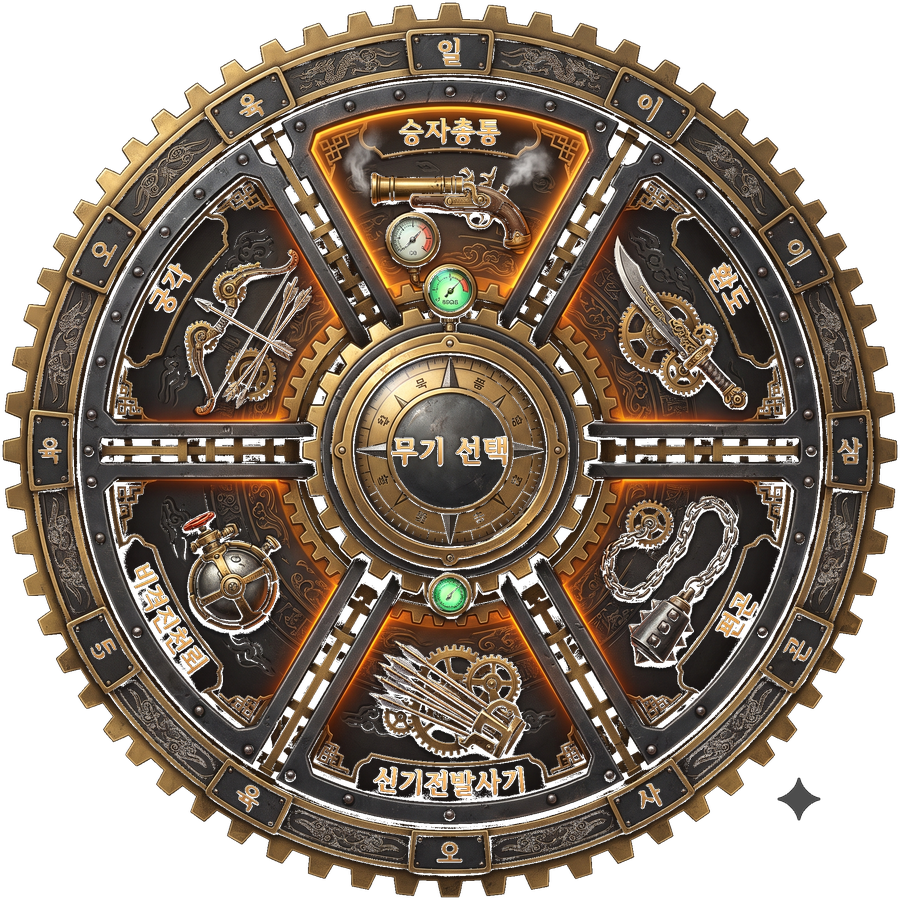
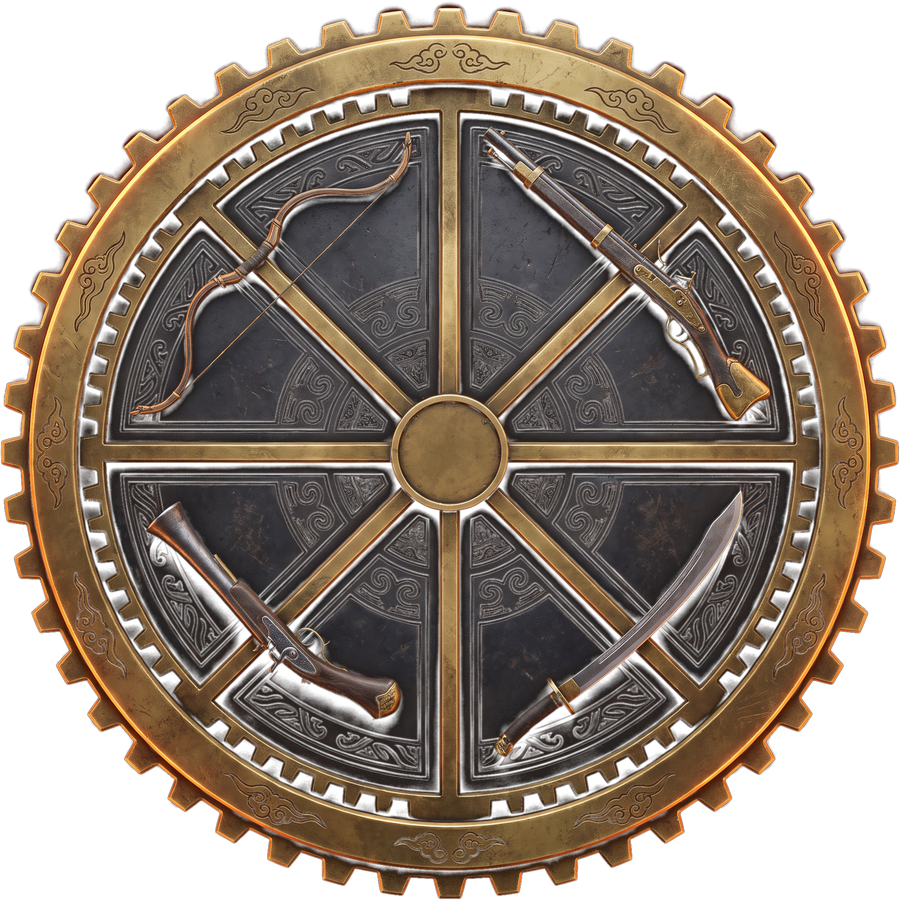
feat: 조선 산탄총 + 흑각궁 실장 (Gemini 아트) + 4분할 무기 휠
아트는 Kling MCP 안의 Gemini 3 Pro Image(나노바나나 Pro)로 생성. 기존 rifle.png 를
image_to_image 레퍼런스로 넣어 손·장갑·브레이서·황동/호두나무 팔레트·구름 각인·압력계까지
맞췄다. 흰 배경 → 알파 컷아웃 후 1100px 폭으로 정규화 (기존 뷰모델 규격).

■ 승자 권총 → 조선 산탄총
펠릿 8발을 7.5° 원뿔로 뿌리고 각각 히트스캔 + 거리 감쇠(8m 까지 100%, 22m 부터 15%).
"빗맞음" 이 부분 명중이 되므로 액터별로 데미지를 합산해 한 번만 onHit 한다.
명중률 통계는 발당 1회만 센다.
실측 데미지: 3m 72 / 8m 36 / 20m 5.3 — 근거리 폭발력, 원거리 무력.
다중 타격도 확인 (3인 밀집에 1발 → 2인 명중).

■ 흑각궁 · 산탄총 전용 아트와 모션
- ritual/carbine 이 rifle.png 를 돌려쓰던 것을 각자 아트로 교체
- 산탄총: 발사 후 펌프를 당겼다 미는 동작
- 활: 시위를 놓으면 앞으로 튀었다가 다음 화살을 당겨 온다
- 반동 크기를 무기 kick 값에 비례시킨다 (전엔 전 무기 고정값)

■ 무기 휠
기존 wheel.png 는 6칸에 다른 무기 이름(승자총통·신기전발사기 등)이 이미지로 구워져
있어 코드의 X자 4분할 + DOM 라벨 구조와 완전히 어긋나 있었다. 4분면에 실제 무기
4종 아이콘만 넣고 텍스트는 뺐다(라벨은 코드가 얹는다).

diff --git a/src/vmsprite.js b/src/vmsprite.js
@@ -6,8 +6,8 @@ import { WEAPONS, HEAVY } from './config.js';
 
 const SPRITES = {
   rifle: 'assets/vm/rifle.png',
-  carbine: 'assets/vm/rifle.png',     // 전용 아트 없음 — 소총 공유
-  ritual: 'assets/vm/rifle.png',
+  carbine: 'assets/vm/shotgun.png',   // 조선 산탄총
+  ritual: 'assets/vm/bow.png',        // 흑각궁
   hwando: 'assets/vm/dagger.png',     // 근접 — 단도/환도 아트
   dagger: 'assets/vm/dagger.png',
   grenade: 'assets/vm/grenade.png',
@@ -30,7 +30,14 @@ export function initVmSprite() {
 
   state.on('handChosen', (h) => document.body.classList.toggle('hand-L', h === 'L'));
   state.on('weaponChanged', refresh);
-  state.on('shotFired', () => { kickY = 26; kickR = 3.5; });
+  state.on('shotFired', () => {
+    const k = WEAPONS[state.currentWeapon];
+    kickY = 26 * (k?.kick ? k.kick / 0.045 : 1); kickR = 3.5 * (k?.kick ? k.kick / 0.045 : 1);
+    // 산탄총: 발사 직후 펌프를 당겼다 민다 (재장전과 별개의 짧은 동작)
+    if (k?.pellets) { const dur = k.fireMs; override = { sprite: cur(), until: now() + dur, anim: 'pump', dur }; }
+    // 활: 쏘면 시위가 튕기고 다음 화살을 매긴다
+    if (k?.silent && k?.drawMs) { const dur = k.drawMs; override = { sprite: cur(), until: now() + dur, anim: 'nock', dur }; }
+  });
   state.on('reloadStart', (key) => {
     const ms = (WEAPONS[key || state.currentWeapon]?.reloadMs || 600) + 250;
     override = { sprite: cur(), until: now() + ms, anim: 'reload', dur: ms };
@@ -54,6 +61,8 @@ export function initVmSprite() {
 }
 
 function cur() { return SPRITES[state.currentWeapon] || SPRITES.rifle; }
+// 0..1 구간을 pivot 기준으로 0..1 로 다시 편다 (전/후반 대칭 동작용)
+function k2(k, pivot) { return k < pivot ? k / pivot : (k - pivot) / (1 - pivot); }
 function refresh() { if (img) img.src = cur(); }
 
 export function updateVmSprite(dt) {
@@ -100,6 +109,16 @@ export function updateVmSprite(dt) {
       ay = -30 - 90 * Math.sin(s * Math.PI);                  // 호 (중간에 치켜들림)
       ar = 26 - 78 * s;                                       // 칼날 각도 회전
       scale = 1 + 0.12 * Math.sin(s * Math.PI);
+    }
+    if (override.anim === 'pump') {          // 펌프 액션: 뒤로 당겼다(전반) 앞으로 민다(후반)
+      const p = k2(k, 0.42);
+      ax = (k < 0.42 ? -70 * p : -70 * (1 - p)) ;
+      ar = (k < 0.42 ? -7 * p : -7 * (1 - p));
+      ay = 10 * Math.sin(k * Math.PI);
+    }
+    if (override.anim === 'nock') {          // 시위: 놓는 순간 앞으로 튀었다가 다음 화살을 당겨 온다
+      if (k < 0.3) { const p = k / 0.3; ax = -46 * p; ar = 5 * p; }
+      else { const p = (k - 0.3) / 0.7, e = p * p * (3 - 2 * p); ax = -46 * (1 - e) + 26 * Math.sin(p * Math.PI); ar = 5 * (1 - e); }
     }
     if (override.anim === 'throw') { ay = 30 - 90 * Math.sin(Math.min(1, k * 1.3) * Math.PI); ar = -6 * Math.sin(k * Math.PI); }
     if (override.anim === 'heavy') {

diff --git a/src/combat.js b/src/combat.js
@@ -88,6 +88,8 @@ export function tryFire() {
   muzzleWorld(_v3);
   state.emit('shotFired', { muzzle: _v3.clone() });
 
+  if (cfg.pellets) return shotgunBlast(cfg);   // 산탄: 펠릿 N 발을 각각 판정
+
   // 히트스캔: 화면 중앙 (포인터락)
   raycaster.setFromCamera({ x: 0, y: 0 }, rig.camera);
   raycaster.far = 200;
@@ -126,6 +128,52 @@ export function tryFire() {
   } else {
     state.combo = 0; state.comboMult = 1; state.emit('comboChanged');
   }
+}
+
+// ── 산탄총: 펠릿을 원뿔로 뿌리고 각각 히트스캔 + 거리 감쇠 ──
+// 한 발이 아니라 여러 발이므로 "빗맞음" 이 부분 명중이 된다. 명중률 통계는 발당 1회만 센다.
+function shotgunBlast(cfg) {
+  const half = cfg.spreadDeg * Math.PI / 180;
+  let anyHit = false;
+  const dealt = new Map();          // actor -> {dmg, part, point}
+  for (let i = 0; i < cfg.pellets; i++) {
+    // 원형 균등 분포 (√r 로 중심 쏠림 방지)
+    const ang = Math.random() * Math.PI * 2;
+    const rad = Math.sqrt(Math.random()) * half;
+    raycaster.setFromCamera({ x: Math.cos(ang) * rad, y: Math.sin(ang) * rad }, rig.camera);
+    raycaster.far = 200;
+    const targets = hittables.filter(h => h.userData.actor?.alive);
+    const hits = raycaster.intersectObjects(targets, false);
+    if (!hits.length) continue;
+    const h = hits[0];
+    const a = h.object.userData.actor;
+    const part = h.object.name;
+    // 거리 감쇠: falloffFrom 까지 100%, falloffTo 부터 minMult
+    const d = h.distance;
+    const k = d <= cfg.falloffFrom ? 1
+            : d >= cfg.falloffTo ? cfg.minMult
+            : 1 - (1 - cfg.minMult) * (d - cfg.falloffFrom) / (cfg.falloffTo - cfg.falloffFrom);
+    const weak = part !== 'hitBody';
+    const dmg = cfg.dmg * (weak ? cfg.weakMult : 1) * k;
+    const cur = dealt.get(a) || { dmg: 0, part: 'hitBody', point: h.point, weak: false };
+    cur.dmg += dmg;
+    if (weak) { cur.part = part; cur.weak = true; }
+    cur.point = h.point;
+    dealt.set(a, cur);
+    anyHit = true;
+  }
+  if (anyHit) {
+    state.shotsHit += 1;
+    bumpCombo();
+    for (const [a, v] of dealt) {
+      a.onHit(v.part, v.dmg * state.comboMult, { weak: v.weak, weapon: cfg.key, shotgun: true });
+      state.emit('shotHit', { point: v.point, weak: v.weak, part: v.part });
+      if (a.headOnly && v.part === 'hitBody') state.emit('shotBlockedByShield', { point: v.point });
+    }
+  } else {
+    state.combo = 0; state.comboMult = 1; state.emit('comboChanged');
+  }
+  state.emit('shotgunBlast', dealt.size);
 }
 
 // ── 환도 근접 베기: 전방 부채꼴 내 최근접 적 1체 ──

diff --git a/src/config.js b/src/config.js
@@ -32,9 +32,11 @@ export const PLAYER = {
 // ── 무기 — PPTX {0}/{1} 규칙: 재장전량 = min(MaxMag-현재, 예비), 예비에서 정확히 차감 ──
 export const WEAPONS = {
   rifle:   { key: 'rifle',   name: '영천 장총', mag: 6, reserve: 60, dmg: 10, weakMult: 2, fireMs: 330, reloadMs: 600,  spread: 12, kick: 0.045 },
-  carbine: { key: 'carbine', name: '승자 권총', mag: 8, reserve: 48, dmg: 6,  weakMult: 2, fireMs: 180, reloadMs: 800,  spread: 24, kick: 0.028 },
+  // 조선 산탄총: 펠릿 8발을 한 번에. 근거리 폭발력, 원거리는 급격히 무력해진다
+  carbine: { key: 'carbine', name: '조선 산탄총', mag: 5, reserve: 30, dmg: 9, weakMult: 2, fireMs: 620, reloadMs: 1100, spread: 0, kick: 0.16,
+             pellets: 8, spreadDeg: 7.5, falloffFrom: 8, falloffTo: 22, minMult: 0.15 },
   ritual:  { key: 'ritual',  name: '흑각궁',    mag: 1, reserve: 3,  dmg: 60, weakMult: 2, fireMs: 800, reloadMs: 1600, spread: 8,  kick: 0.10,
-             silent: true },   // 활 — 무소음 (은신 시너지)
+             silent: true, drawMs: 520 },   // 활 — 무소음(은신 시너지) + 시위 당김 선행
   hwando:  { key: 'hwando',  name: '환도',      mag: 1, reserve: 0,  dmg: 34, weakMult: 2, fireMs: 420, reloadMs: 0,    spread: 0,  kick: 0.06,
              melee: true, range: 2.6, arcDeg: 100 },   // 근접 — 탄약 없음, 숏앤슬래시
 };

diff --git a/index.html b/index.html
@@ -243,10 +243,10 @@
     <div id="wheelx"></div>
     <span class="wlabel" id="wl-rifle">장총</span>
     <span class="wlabel" id="wl-hwando">환도</span>
-    <span class="wlabel" id="wl-carbine">권총</span>
+    <span class="wlabel" id="wl-carbine">산탄총</span>
     <span class="wlabel" id="wl-ritual">활</span>
   </div>
-  <div class="wheelhint" id="wheelname">Space 탭 — 무기 전환 · 1/2/3 직접 선택</div>
+  <div class="wheelhint" id="wheelname">Space 탭 — 무기 전환 · 1/2/3/4 직접 선택</div>
 </div>
 
 <div id="slashfx"></div>
@@ -338,7 +338,7 @@
     <div class="ammochip" id="reschip"><span id="resval">60</span></div>
   </div>
   <div id="reloadmsg"></div>
-  <div id="wslots"><b>1</b> 장총 · <span id="ws2">2 권총</span> · <span id="ws3">3 활</span> · <span id="ws4">4 환도</span> · <b>Space</b> 전환/휠</div>
+  <div id="wslots"><b>1</b> 장총 · <span id="ws2">2 산탄총</span> · <span id="ws3">3 활</span> · <span id="ws4">4 환도</span> · <b>Space</b> 전환/휠</div>
 </div>
 <div id="ult" class="hud">
   <img id="ultimg" src="assets/ui/hud_ult.png" alt="">

diff --git a/src/ui.js b/src/ui.js
@@ -140,7 +140,7 @@ export function initUI({ onRunStart, onRestart }) {
     document.querySelector('#bossslot i').style.width = Math.max(0, r * 100) + '%';
     if (r <= 0) bossHideTimer = setTimeout(() => $('bossbar').classList.add('hidden'), 1200);
   };
-  state.on('mulgitHp', (r) => showBossBar('사 또', r));
+  state.on('sattoHp', (r) => showBossBar('사 또', r));
   state.on('bossHpRatio', (r) => showBossBar('해 태', Math.max(0, r)));
   state.on('bossDefeated', () => showBossBar('해 태', 0));
   state.on('gateOpened', () => {});
@@ -173,7 +173,7 @@ function renderAmmo() {
   renderSlots();
   renderWheelHl(state.currentWeapon);
 }
-const WHEEL_ANGLE = { rifle: 45, hwando: 135, carbine: 225, ritual: 315 }; // X자 4등분: ↗장총 ↘환도 ↙권총 ↖활
+const WHEEL_ANGLE = { rifle: 45, hwando: 135, carbine: 225, ritual: 315 }; // X자 4등분: ↗장총 ↘환도 ↙산탄총 ↖활
 function renderWheelHl(key) {
   const k = key || state._wheelPick || state.currentWeapon;
   $('wheelhl').style.setProperty('--a', (WHEEL_ANGLE[k] || 0) + 'deg');
